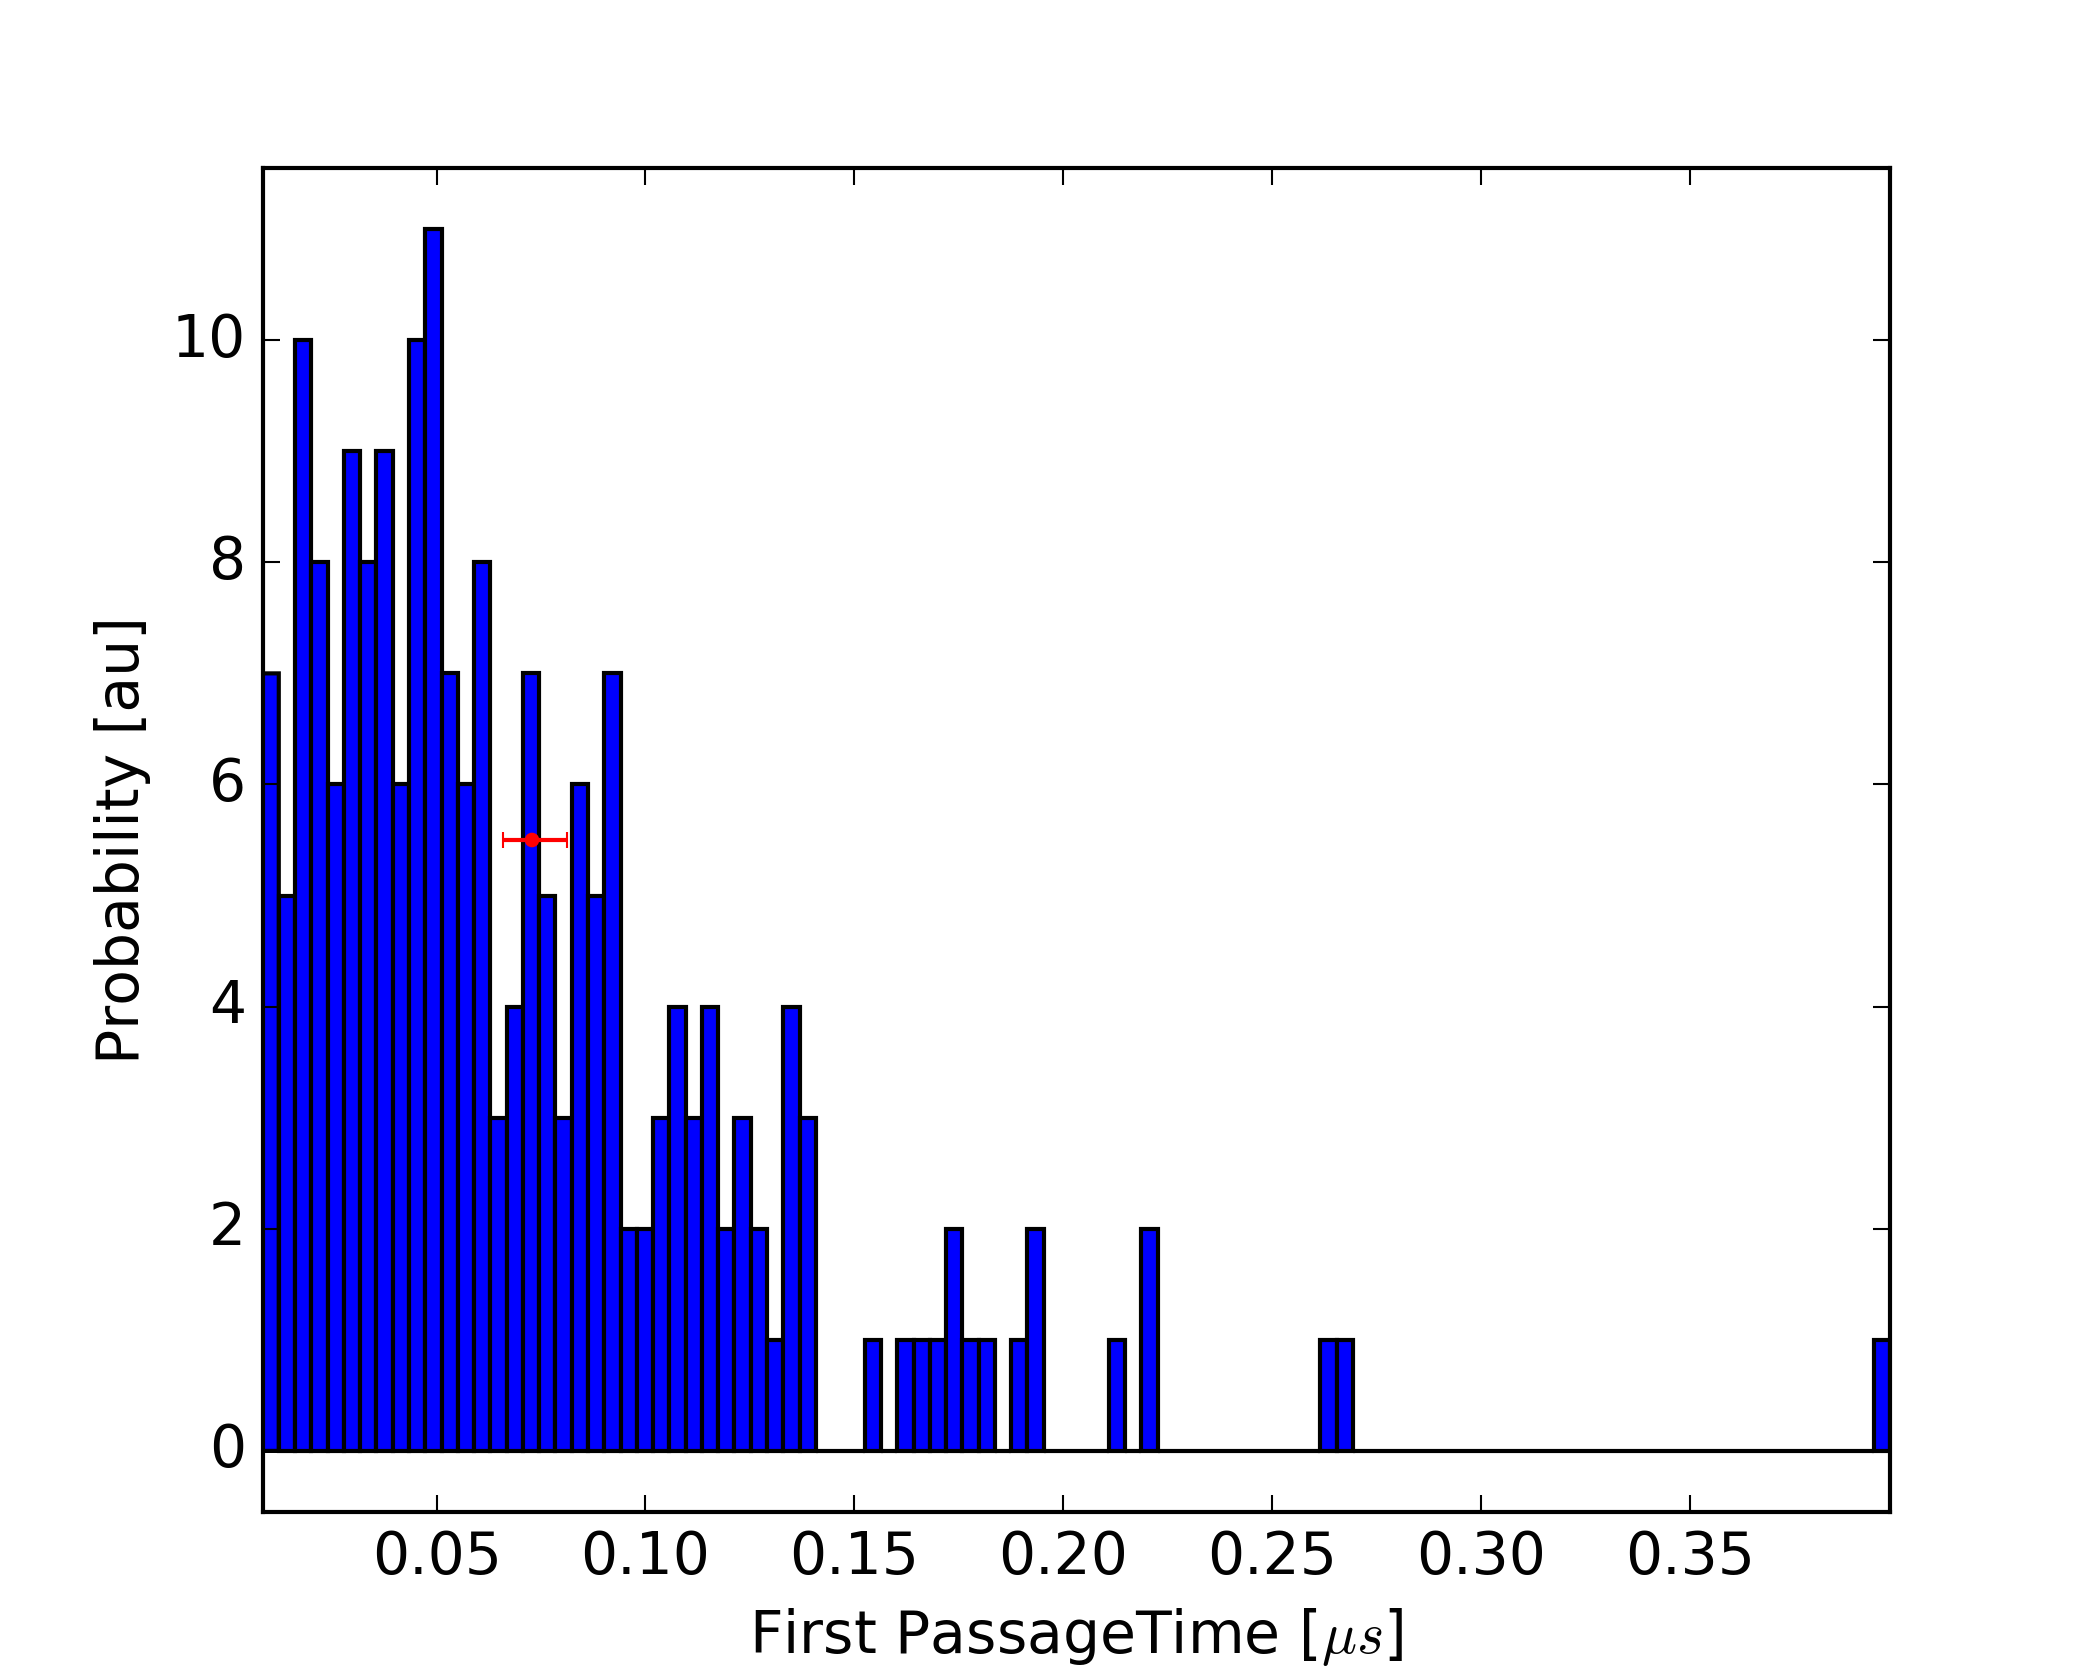
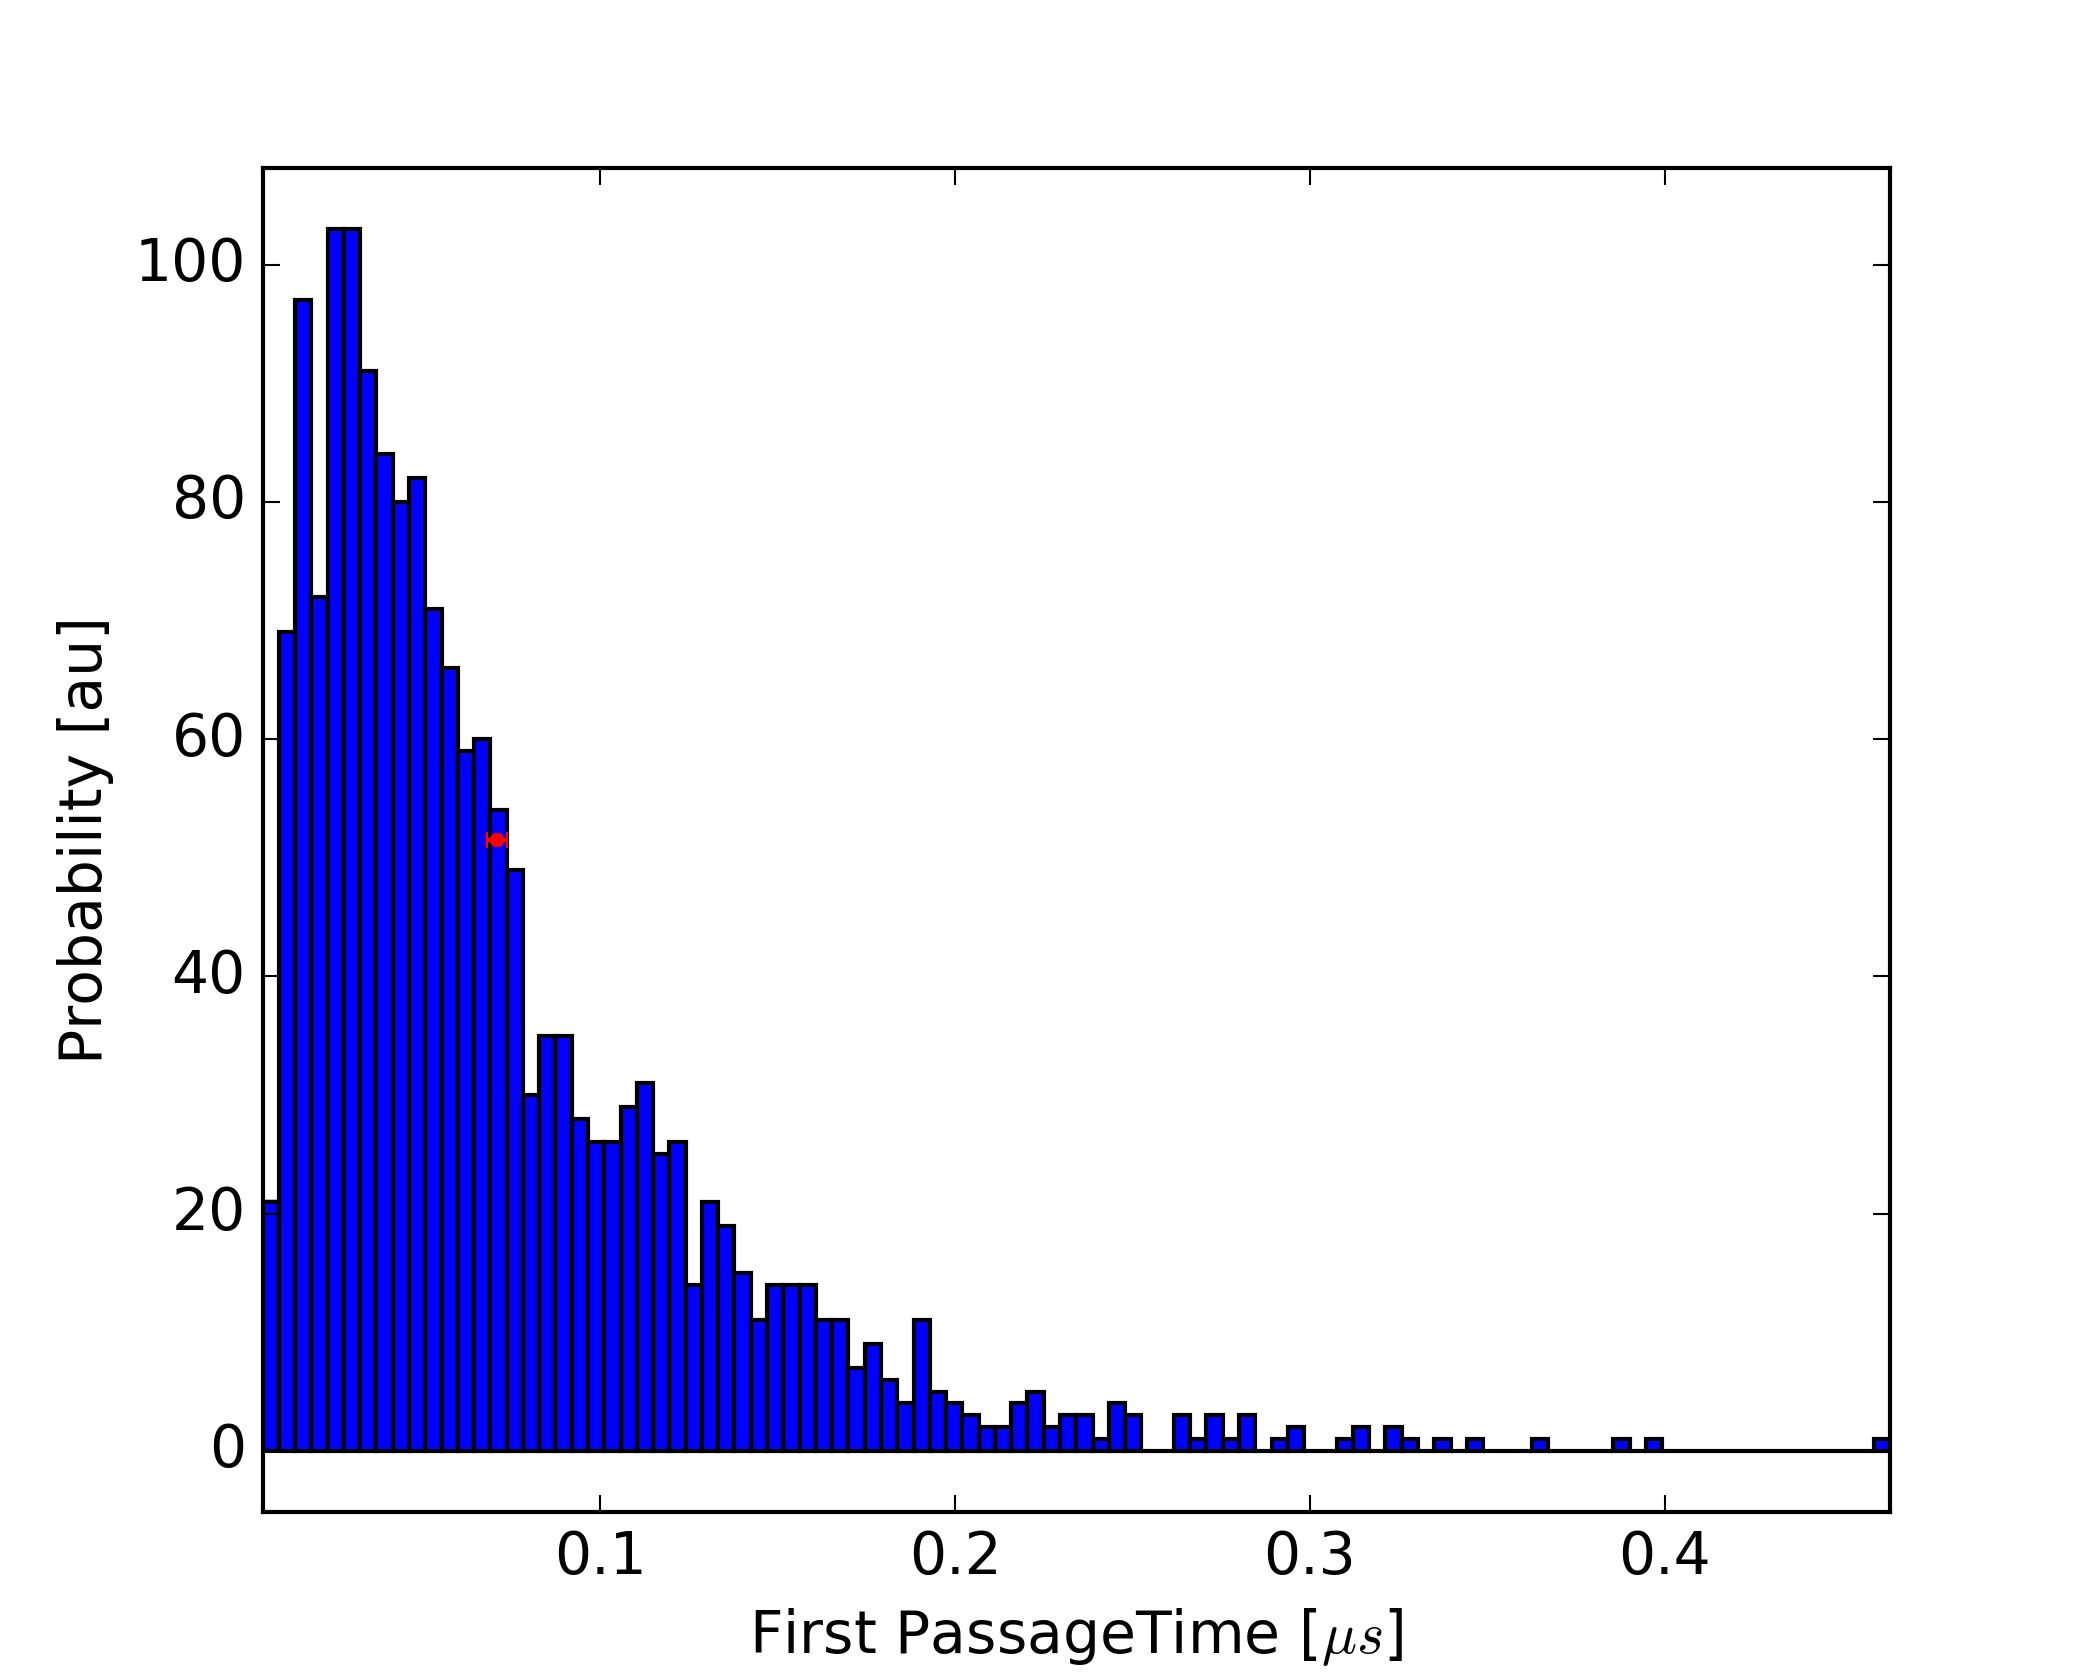
Rendering some new figures

diff --git a/membfig.py b/membfig.py
@@ -10,6 +10,9 @@ import matplotlib
 import matplotlib.pyplot as plt
 import plottools
         
+##################################
+#  Figure 2: Brute Force Scheme
+##################################
 fig = plt.figure(1, facecolor='white', figsize=(7, 5.6))
 ax1 = fig.add_subplot(111)
 
@@ -27,7 +30,7 @@ ax1.set_xlabel(r'Position [$z$]')
 ylabels = [0, r'$u_0$']
 plt.yticks([0,1], ylabels)
 
-xlabels = [0, 'a', 'b']
+xlabels = [0, 'b', 'a']
 plt.xticks([0,a,b], xlabels)
 
 ax1.text(0.25,0.75, 'Donor Compartment', rotation='vertical', )
@@ -37,40 +40,45 @@ plt.savefig('figures/ISDplot.png', dpi=300, transparent=True)
 
 
 
+##################################
+#  Figure 2: PCBP Scheme
+##################################
 fig = plt.figure(2, facecolor='white', figsize=(7, 5.6))
 ax1 = fig.add_subplot(111)
 
+# Set boundaries of regions
 q = 1.5
-a = 5
-b = 10
-x = [0,q,a]
-y = [1,0.95,0]
+b = 5
+a = 10
 
+# Red lines for the concentrations
+x = [0,q,b]
+y = [1,0.95,0]
 ax1.plot(x, y, lw=3, color='r')
+
+# Vertical dotted separating regions
 ax1.axvline(x=0, lw=2, color='k', linestyle='--')
 ax1.axvline(x=q, lw=2, color='k', linestyle='--')
 ax1.axvline(x=a, lw=2, color='k', linestyle='--')
 ax1.axvline(x=b, lw=2, color='k', linestyle='--')
-
 for i in xrange(a,b,1):
     ax1.axvline(x=i, lw=0.5, color='k', linestyle='--')
+
+# Setting x, y-labels
 ax1.set_ylabel(r'Concentration [$u(z)$]')
 ax1.set_xlabel(r'Position [$z$]')
-
 ylabels = [0, r'$u_0$']
 plt.yticks([0,1], ylabels)
-
 xlabels = [0, 'q', 'b', 'a']
-plt.xticks([0,q,a,b], xlabels)
+plt.xticks([0,q,b,a], xlabels)
 
 ax1.set_ylim([0,2])
 ax1.margins(0.05,0.05)
 
+
+# Text labels of features
 ax1.text(-0.4,1.5, 'Donor Compartment', rotation='vertical', )
 ax1.text(10.1,1.55, 'Acceptor Compartment', rotation='vertical', )
-
-
-
 
 ax1.text(0.5,1.15, r'$J_1$')
 ax1.arrow(0.1, 1.1, 1.2, 0, head_length=0.1, head_width=0.05, 
@@ -80,16 +88,17 @@ ax1.text(3,0.65, r'$J_2$')
 ax1.arrow(1.7, 0.6, 3, 0, head_length=0.15, head_width=0.06,
         width=0.02, facecolor='green')
 
-
 ax1.text(7.5, 1.05, r'$\mathbf{\rho}$', fontsize=20, color='blue', 
         bbox=dict(facecolor='white', alpha=0.85, 
                 joinstyle='round', linewidth=0))
 ax1.arrow(5.2, 0.95, 4.6, 0, head_length=0.1, head_width=0.05,
         width=0.015, facecolor='blue')
-
 ax1.text(2.9, 1.05, r'$\mathbf{1-\rho}$', fontsize=20, color='blue')
 ax1.arrow(4.8, 0.95, -3.1, 0, head_length=0.1, head_width=0.05,
         width=0.015, facecolor='blue')
+
+ax1.text(0.35,0.875, r'$u_1(z)$', color='red')
+ax1.text(2.7,0.35, r'$u_2(z)$', color='red')
 
 ax1.text(6.75,0.05, r'Milestones')
 

diff --git a/driver.py b/driver.py
@@ -51,7 +51,8 @@ if __name__ == '__main__':
         raw_input("Using non-accelerated, hit enter to continue...")
 
     milestones = np.arange(-25, 26, 1)
-    
+   
+    """
     # Flat system
     print '#'*30 + '\n#         Flat System        #\n'  + '#'*30
     name = 'flat'
@@ -81,6 +82,7 @@ if __name__ == '__main__':
             length = 1e-6, dt = 1e-15, cOpt = cOpt)
     #perm.processMilestones(system, milestones)
     print '\n\n'
+    """
 
     # Small hill system
     print '#'*30 + '\n#      Small Hill System        #\n'  + '#'*30
@@ -103,17 +105,20 @@ if __name__ == '__main__':
     smolP = system.smolPerm()
     if abs(ihsdP - smolP) > 1e-4:
         logging.warning("Equation 22 is not equal")
+    """
     perm.bruteMPCrossing(system, numSims=1000, length = 1e-4, 
             dt = 1e-12, cOpt = cOpt)
     perm.bruteMPTimes(system, numSims=500, length = 1e-4, 
            dt = 1e-12, cOpt = cOpt)
+    """
     #perm.processBrute(system)
 
     perm.milestoneMP(system, milestones, numSims = 10000, 
-            length = 1e-4, dt = 1e-15, cOpt = cOpt, focus=np.arange(9,42))
+            length = 1e-4, dt = 1e-15, cOpt = cOpt)
     #perm.processMilestones(system, milestones)
     print '\n\n'
 
+    """
     # Urea like system
     print '#'*30 + '\n#         Urea System        #\n'  + '#'*30
     name = 'urea'
@@ -178,3 +183,4 @@ if __name__ == '__main__':
             length = 1e-4, dt = 1e-15, cOpt = cOpt)
     #perm.processMilestones(system, milestones)
     print '\n\n'
+    """
